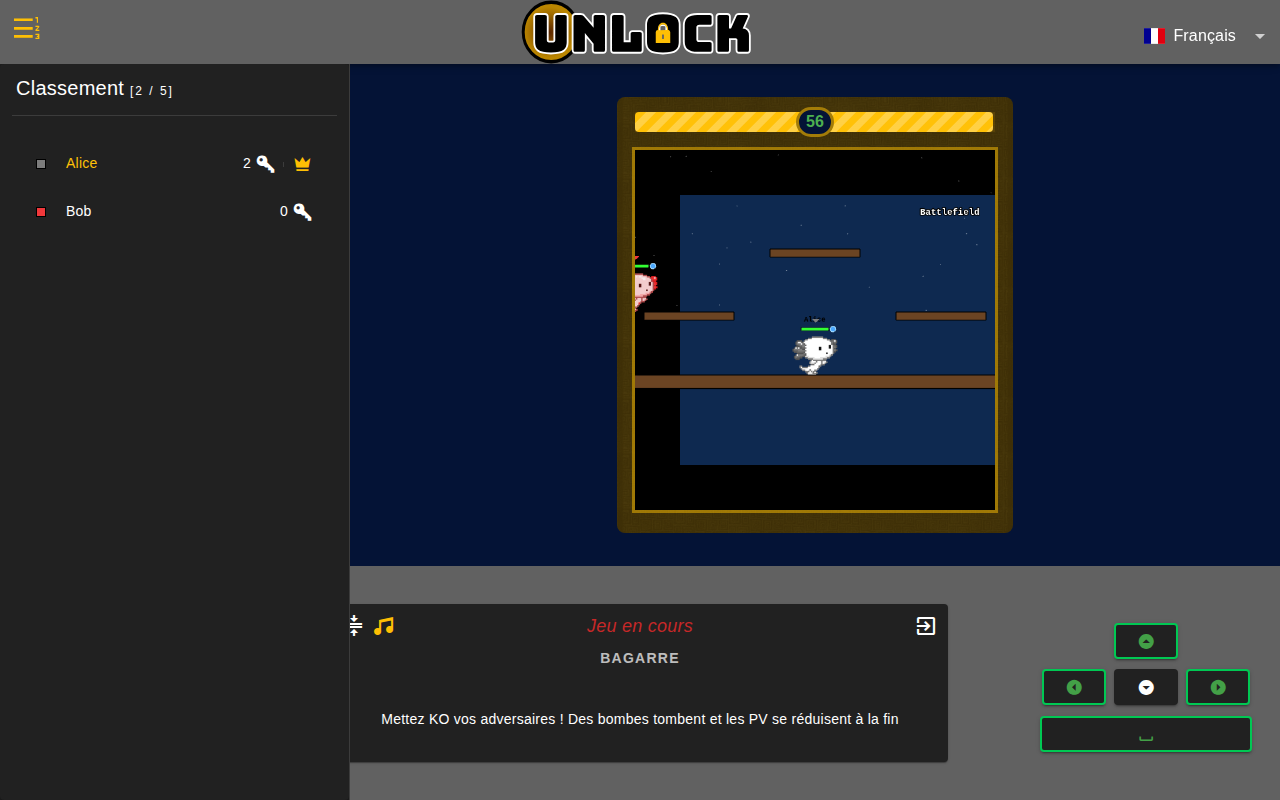
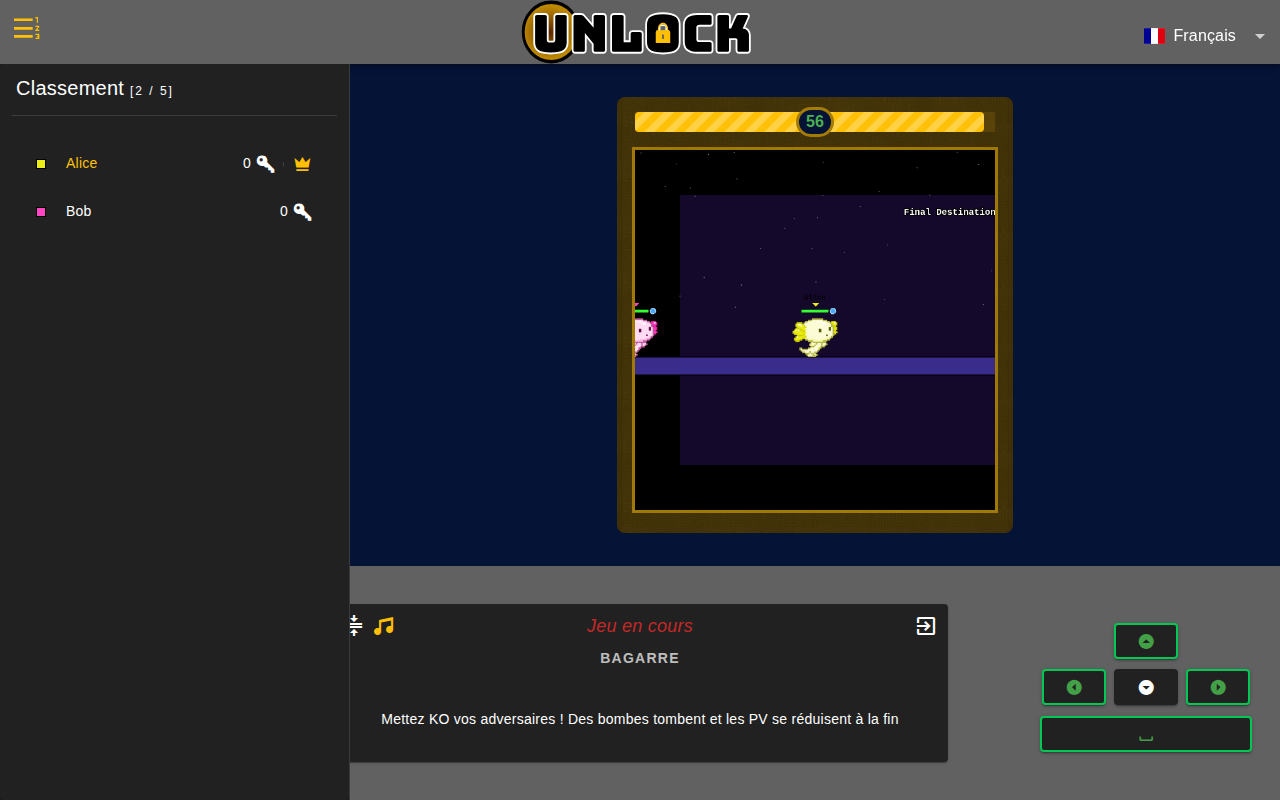
Brawl : restaurer l'écart d'origine pseudo ↔ triangle
Dans le précédent patch, j'avais collé le pseudo et le triangle à 12 px
au lieu des 25 px d'origine ; le pseudo se confondait visuellement avec
le triangle qui pointe vers l'axolotl.

Géométrie d'origine sur l'Axolotl :
  pseudo   centre Y = body.y - 28
  triangle pointe Y = body.y - 3       (juste au-dessus du sprite)
  écart                  25 px

Nouveau patch dans GameBrawlScene.patchAxolotlNameOffset :
  triangle pointe Y = body.y - 22      (juste au-dessus de la barre
                                         de vie centrée à body.y - 16)
  pseudo   centre Y = body.y - 47      (= triangle - 25, écart
                                         identique à l'original)

L'ordre vertical reste : pseudo → triangle → barre de vie → axolotl.

Re-capture des trois screenshots Brawl (zoom, punch, dodge) avec la
nouvelle géométrie.

Changed region(s): [[0.4688, 0.2188, 0.7812, 0.5938], [0.6562, 0.125, 0.7812, 0.1562], [0.5, 0.125, 0.5938, 0.1562]]

diff --git a/client/src/models/scenes/game-brawl-scene.js b/client/src/models/scenes/game-brawl-scene.js
@@ -163,13 +163,24 @@ export default class GameBrawlScene extends Scene {
   }
 
   // Remplace les positions par défaut du pseudo et du triangle pour
-  // qu'ils apparaissent au-dessus de la barre de vie au lieu de la
-  // chevaucher. Appliqué à chaque instance créée dans la Bagarre.
+  // qu'ils apparaissent au-dessus de la barre de vie tout en respectant
+  // la distance pseudo ↔ triangle d'origine (25 px).
+  //
+  // Géométrie d'origine sur l'Axolotl :
+  //   pseudo   centre Y = body.y - 28
+  //   triangle pointe Y = body.y - 3       (juste au-dessus du sprite)
+  //   écart                  25 px
+  //
+  // Dans Brawl, la barre de vie est centrée à body.y - 16 (back de
+  // hauteur 8 → couvre body.y - 20 à body.y - 12). On glisse le tout :
+  //   triangle pointe Y = body.y - 22      (juste au-dessus de la barre)
+  //   pseudo   centre Y = body.y - 47      (= triangle - 25, écart
+  //                                          identique à l'original)
   patchAxolotlNameOffset(axolotl) {
     const origName = axolotl.updateNamePosition.bind(axolotl)
     const origTri = axolotl.updateNameTrianglePosition.bind(axolotl)
-    axolotl.updateNamePosition = (x, _y) => origName(x, axolotl.body ? axolotl.body.y - 38 : _y)
-    axolotl.updateNameTrianglePosition = (x, _y) => origTri(x, axolotl.body ? axolotl.body.y - 26 : _y)
+    axolotl.updateNamePosition = (x, _y) => origName(x, axolotl.body ? axolotl.body.y - 47 : _y)
+    axolotl.updateNameTrianglePosition = (x, _y) => origTri(x, axolotl.body ? axolotl.body.y - 22 : _y)
   }
 
   maybeSpawnLocalAxolotl() {
